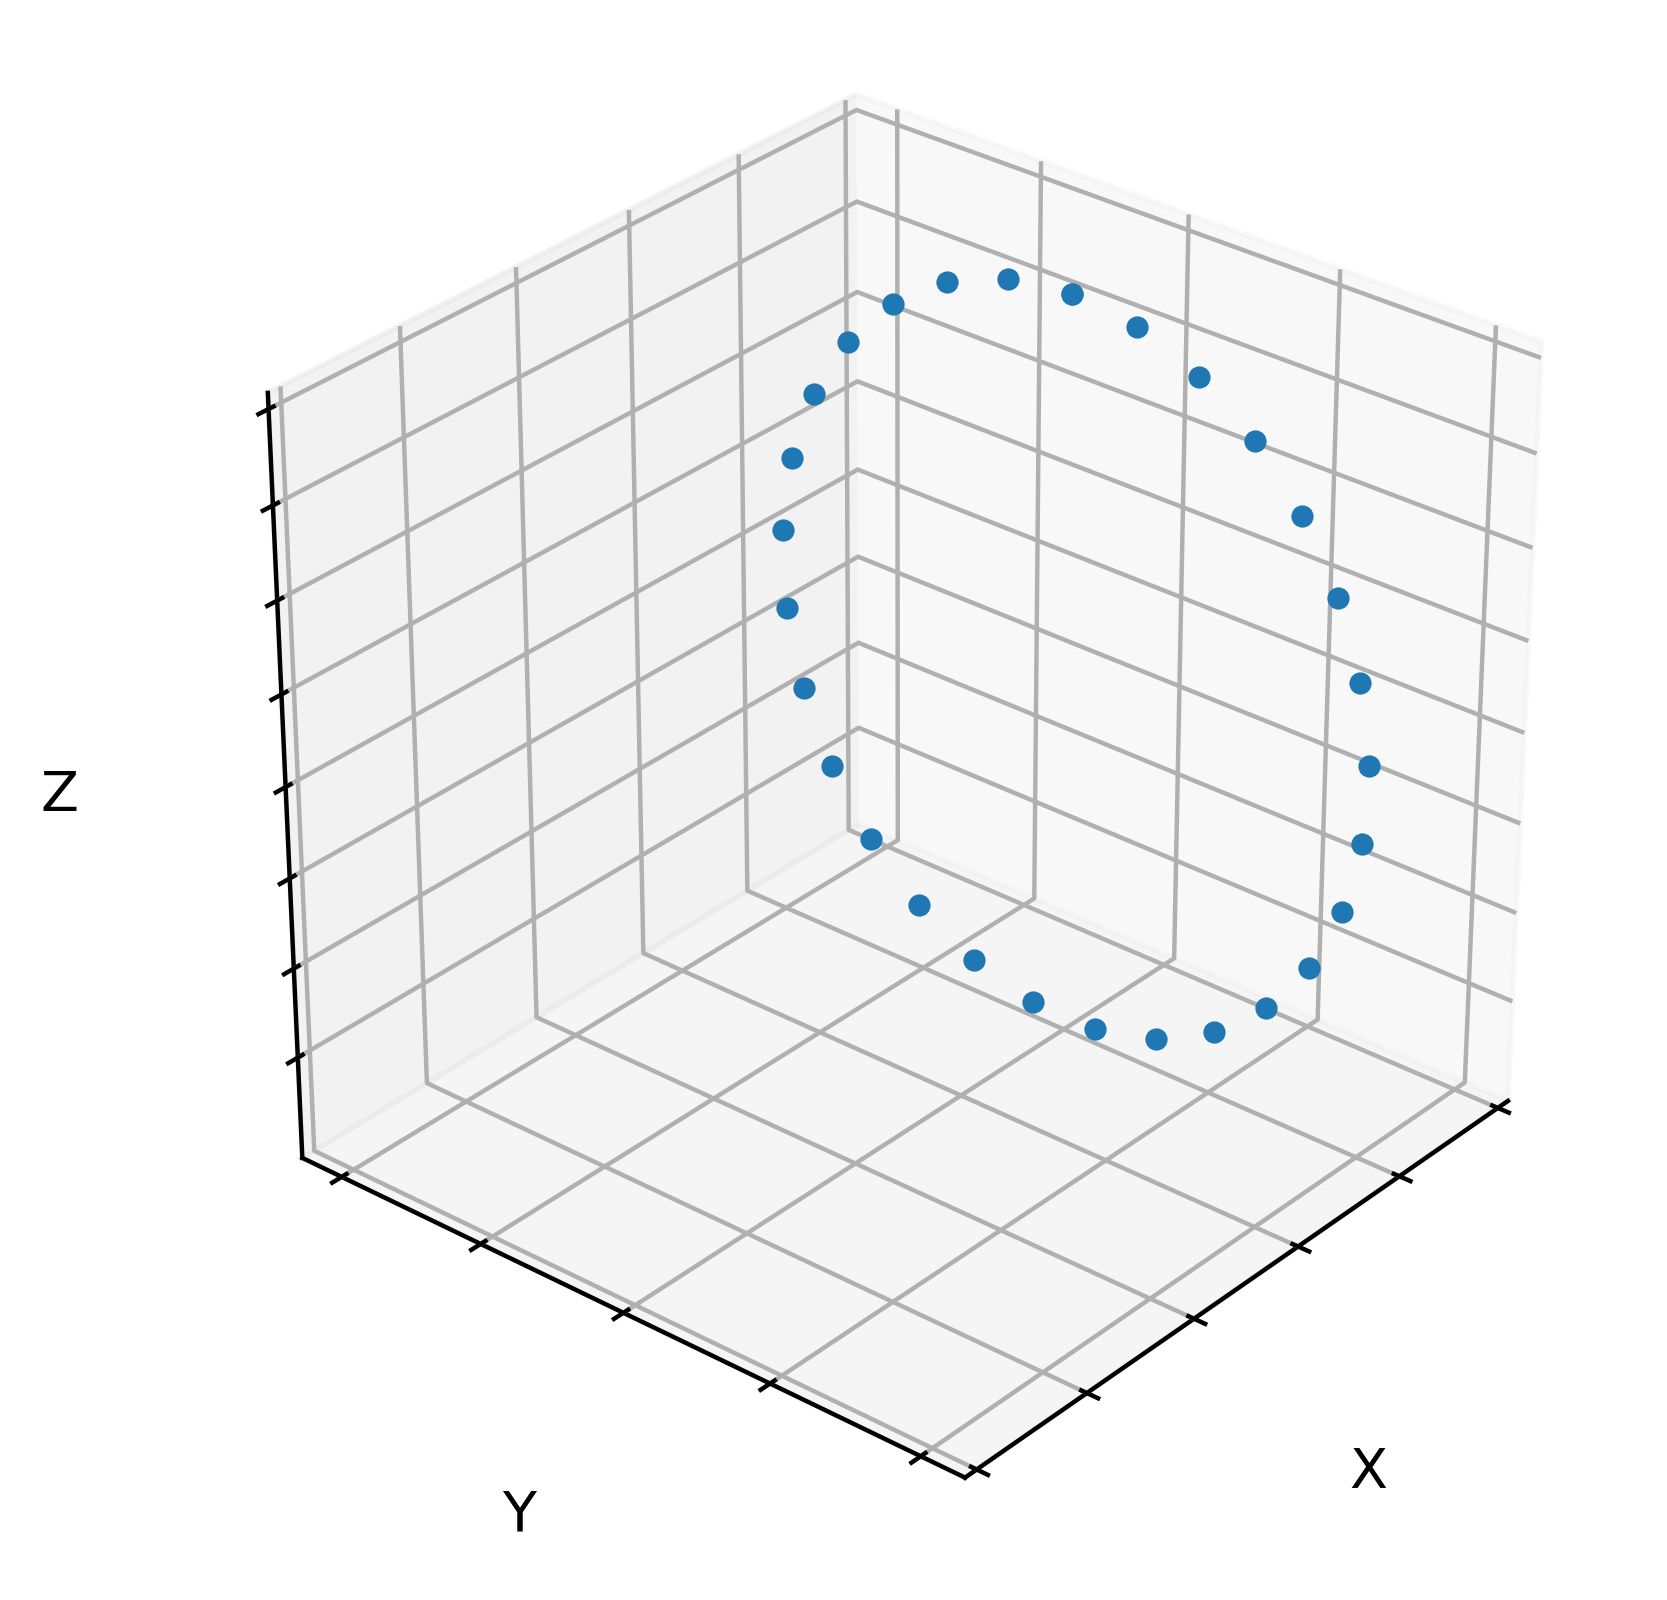
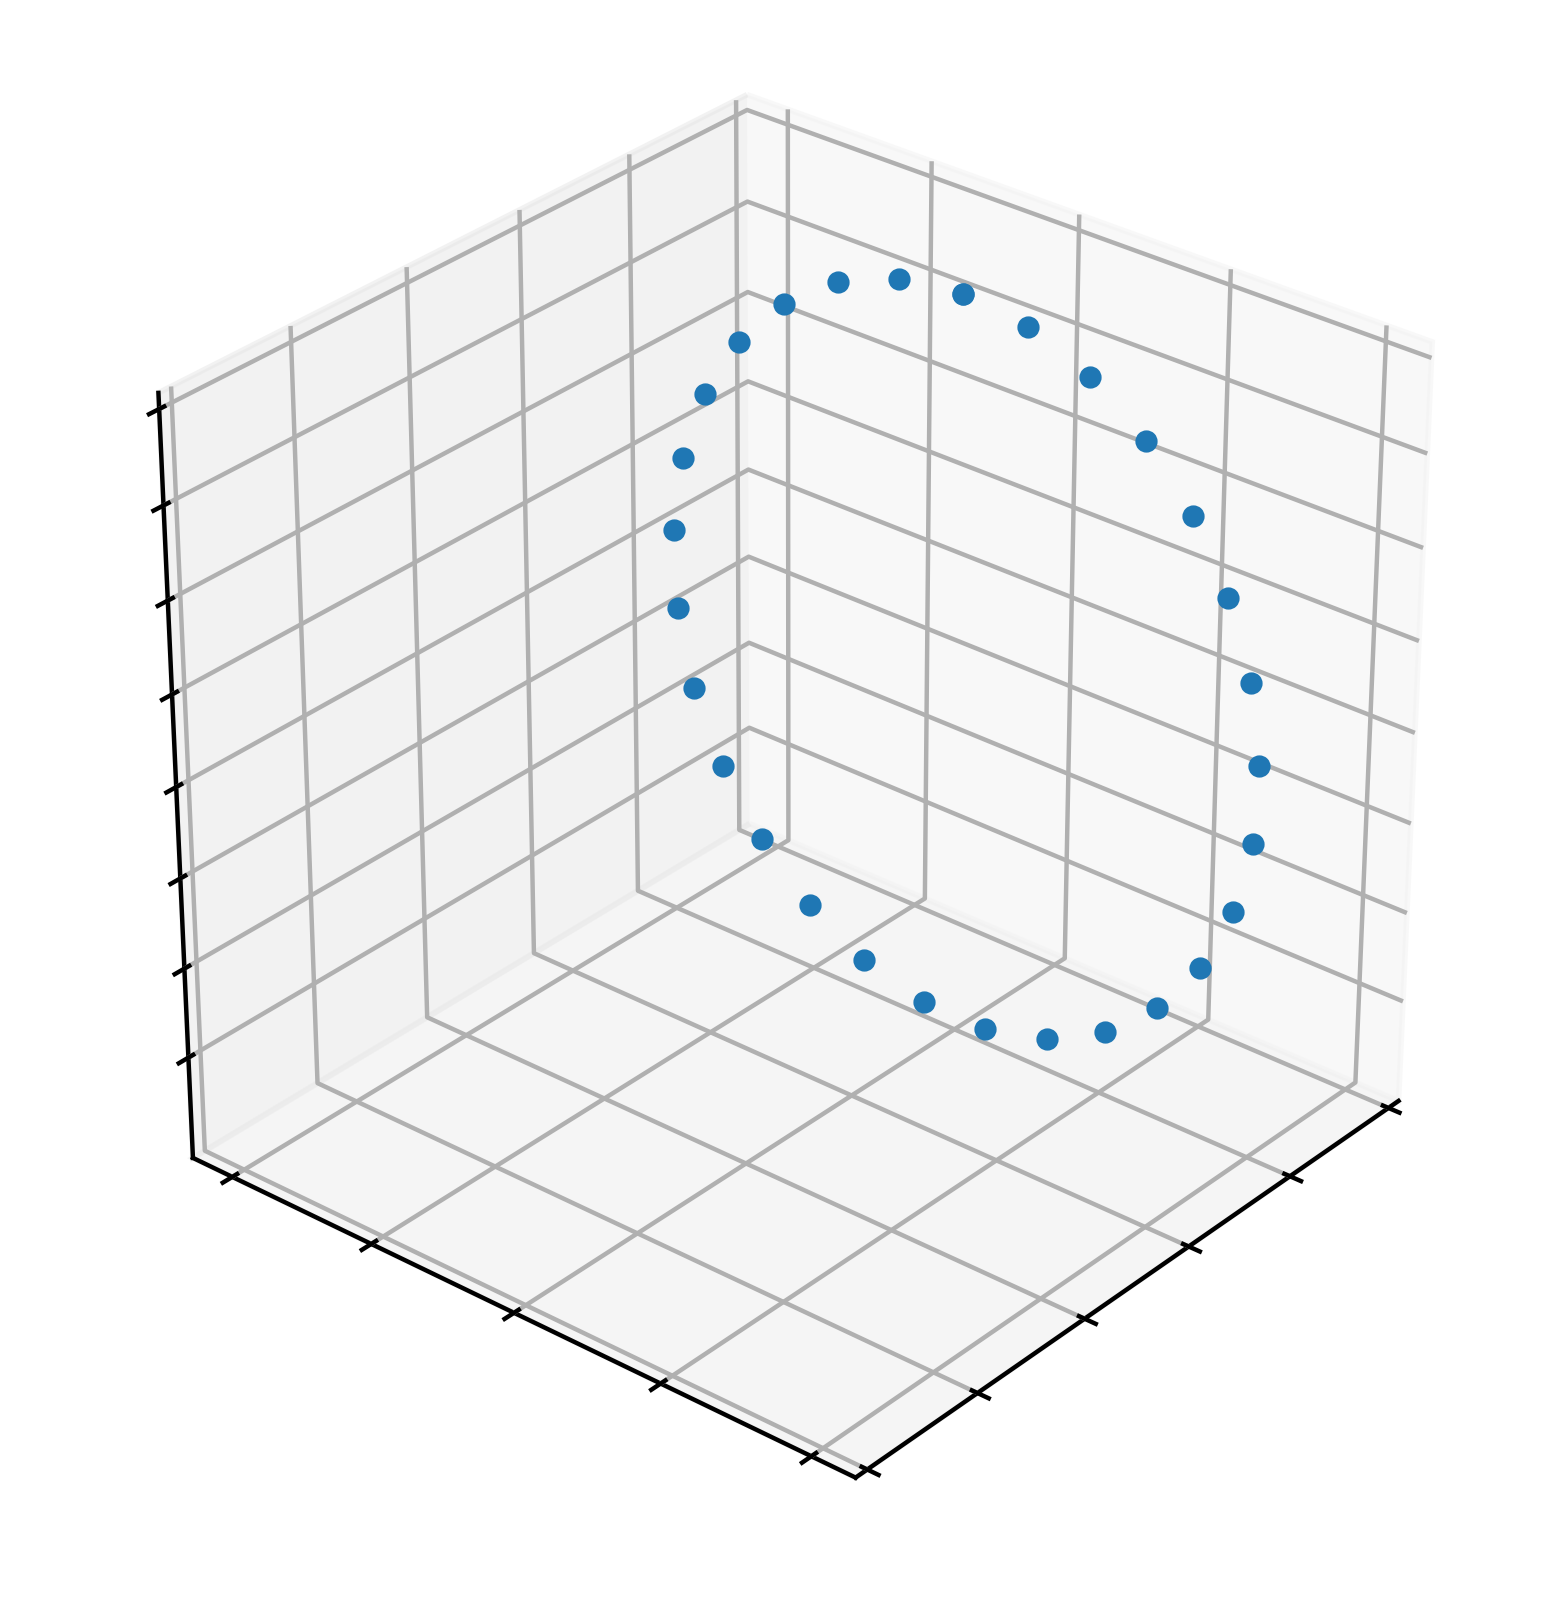
update images

diff --git a/Honours/Talks/Honours Progress Talk/ModelPlot.py b/Honours/Talks/Honours Progress Talk/ModelPlot.py
@@ -540,7 +540,9 @@ def plot_spiral(X, Y, H):
     # import matplotlib.colors as cols
     # ax.pcolormesh(X, Y, H, norm=cols.LogNorm(vmin=1, vmax=H.max()))
     # ax.pcolormesh(X, Y, H, norm=cols.PowerNorm(gamma=1/2), cmap='hot')
-    ax.set(aspect='equal', xlabel='Relative RA (")', ylabel='Relative Dec (")')
+    ax.set(aspect='equal', xlabel='', ylabel='',
+           xticklabels=[], yticklabels=[])
+    
     fig.savefig('TestSystemHist.png', dpi=400, bbox_inches='tight')
 
 
@@ -603,7 +605,7 @@ def plot_3d(particles, weights):
     ax.scatter(particles[0, ::n], particles[1, ::n], particles[2, ::n], marker='.', s=100, alpha=0.5)
     ax.view_init(elev=-90, azim=0)
     ax.set_box_aspect([1.0, 1.0, 1.0])
-    ax.set(xlabel='Relative Dec', ylabel='Relative RA', 
+    ax.set(xlabel='', ylabel='', 
            xticklabels=[], yticklabels=[], zticklabels=[])
     fig.savefig('TestSystem3D.png', dpi=400, bbox_inches='tight')
     
@@ -690,7 +692,7 @@ fig = plt.figure()
 ax = fig.add_subplot(projection='3d')
 
 ax.plot3D(x, y, z, marker='.', ls='')
-ax.set(xlabel='X', ylabel='Y', zlabel='Z', 
+ax.set(xlabel='', ylabel='', zlabel='', 
        xticklabels=[], yticklabels=[], zticklabels=[],
        xlim=(0.5, 3))
 ax.set_box_aspect([1.0, 1.0, 1.0])
